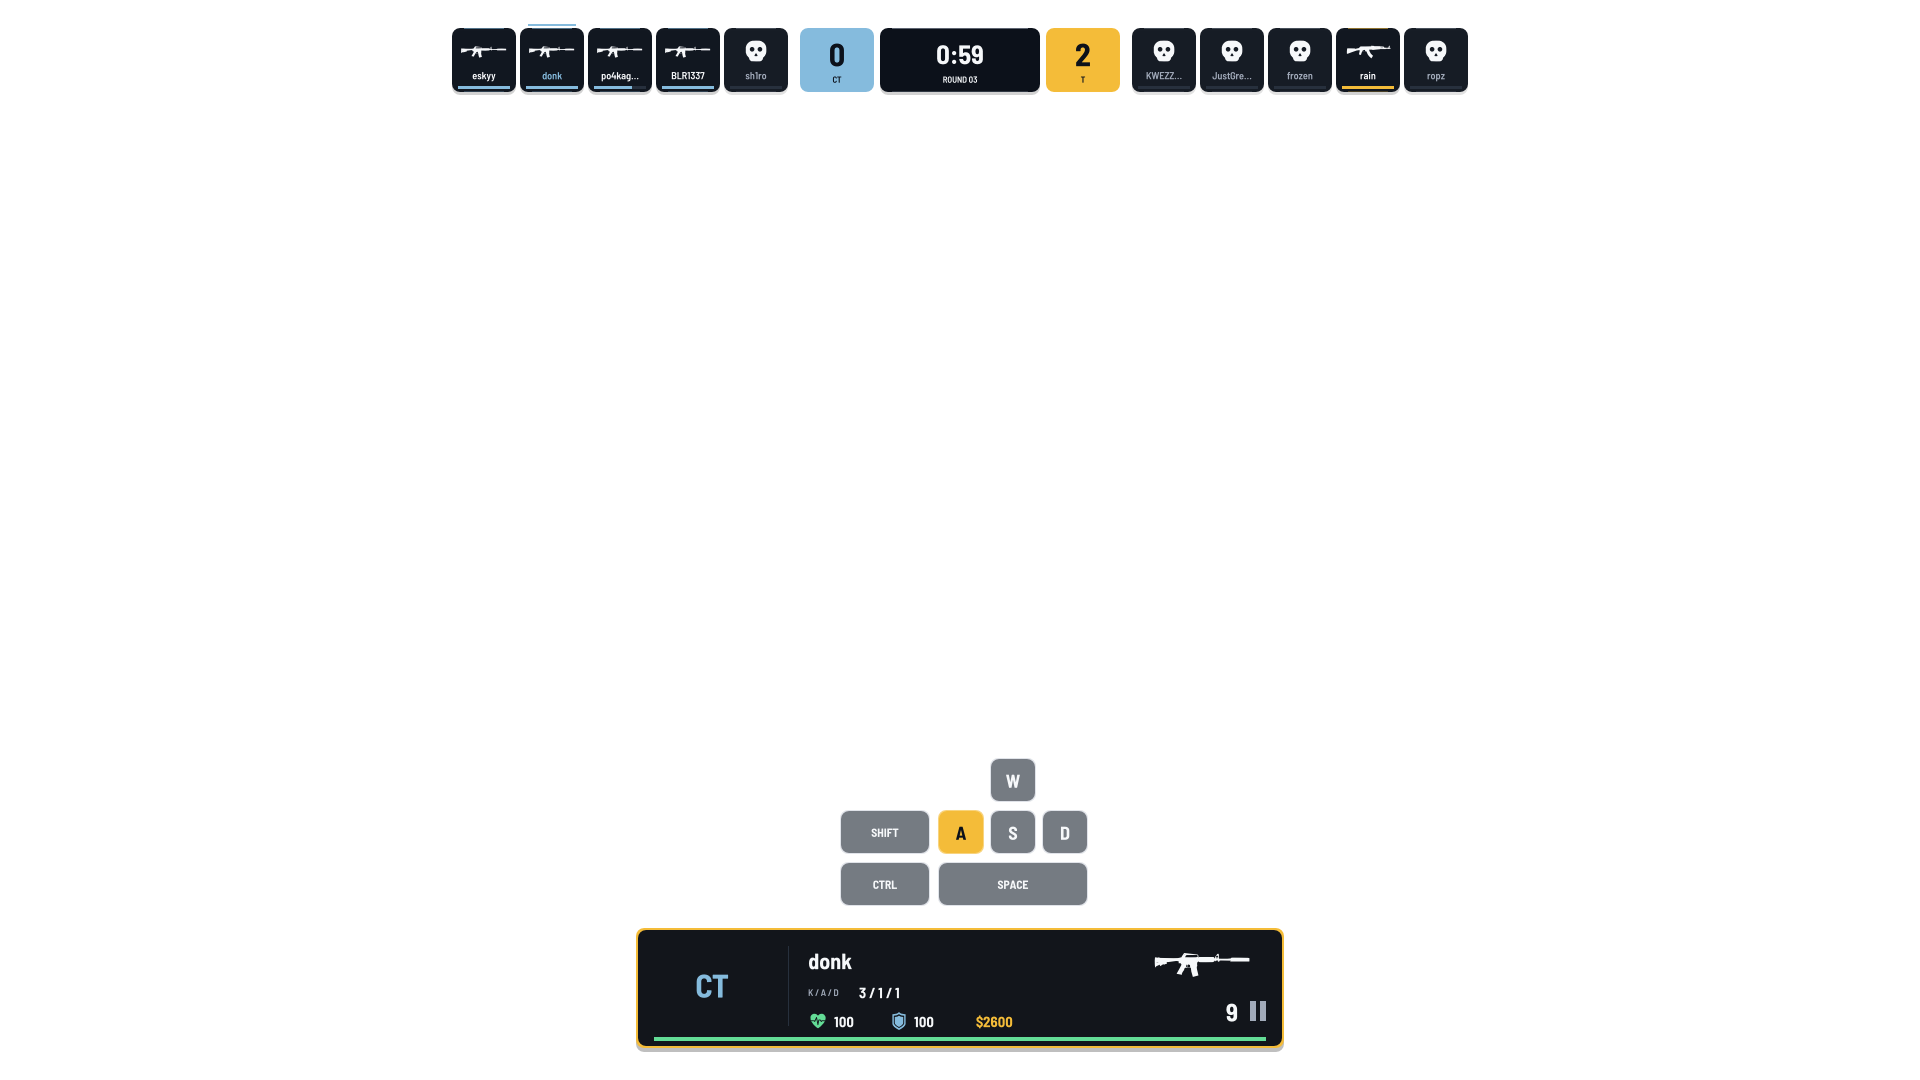
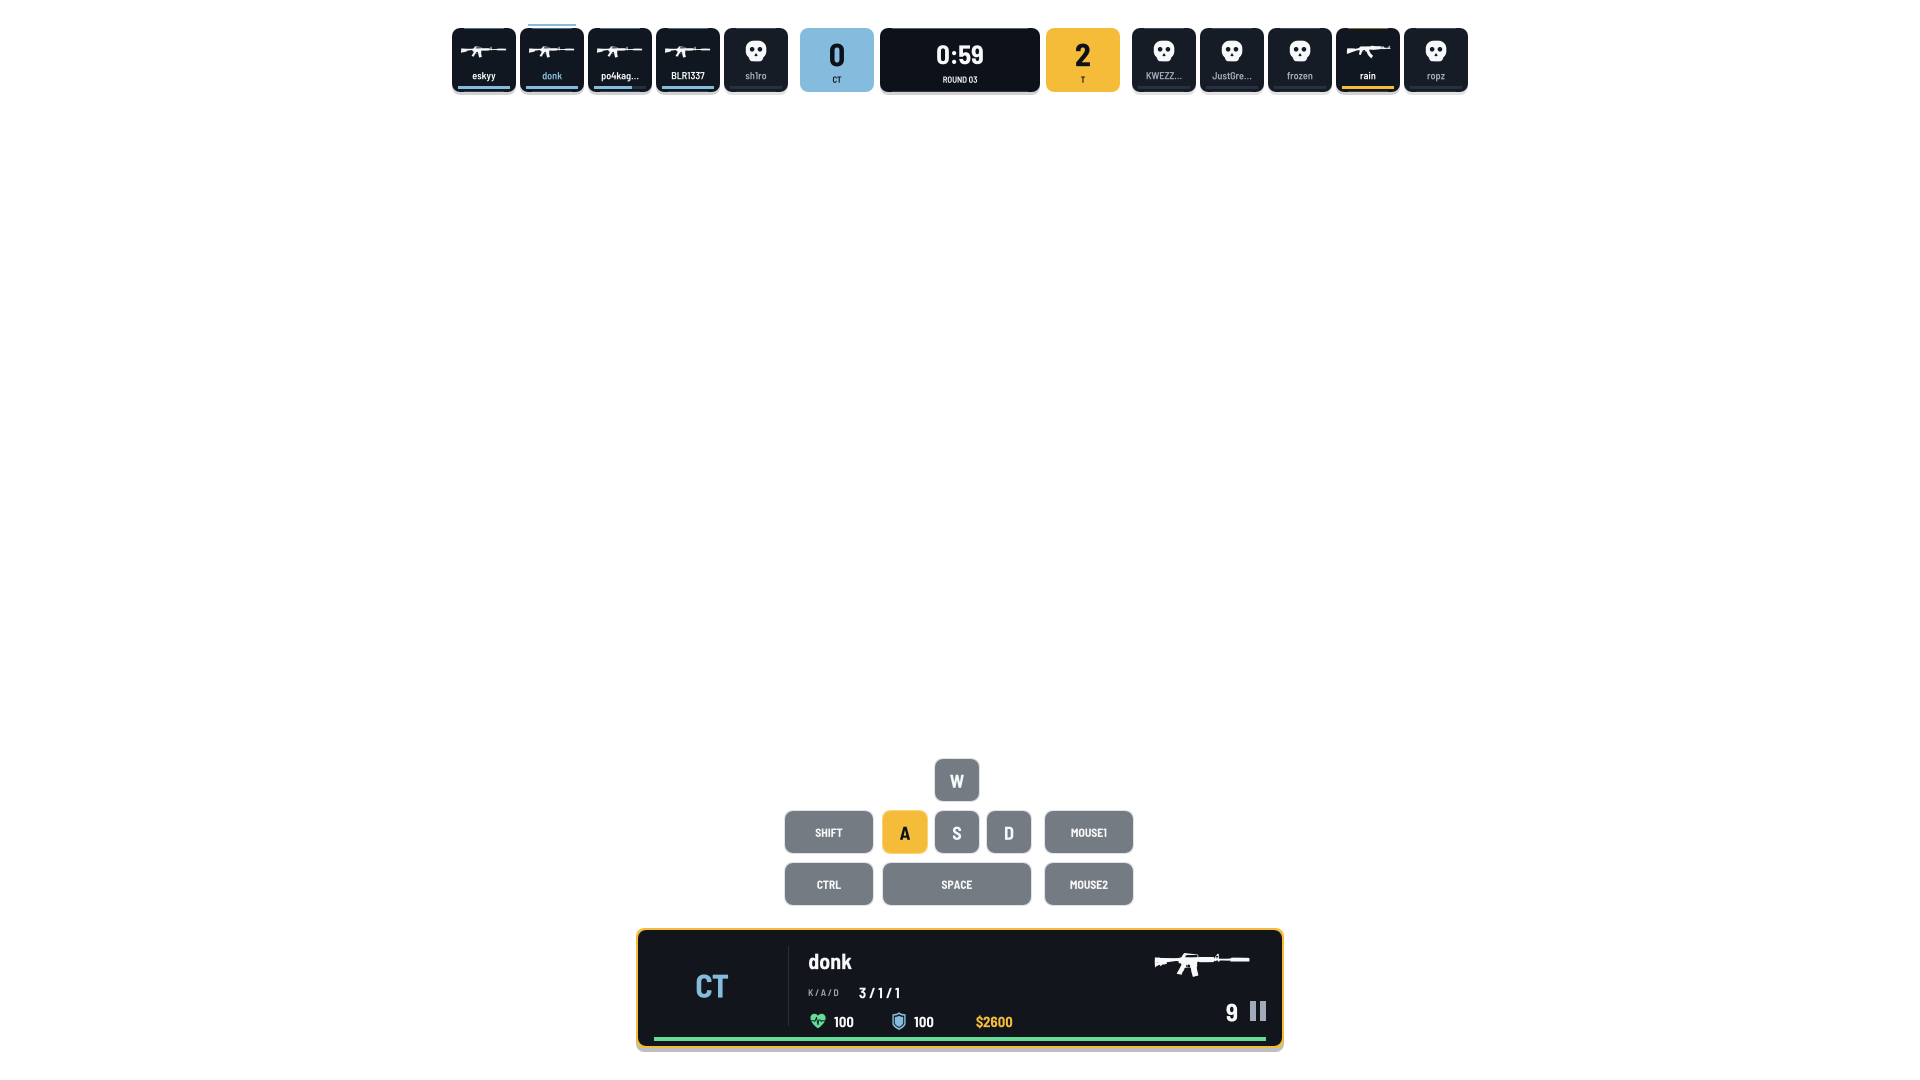
feat(hud): Focus HUD shows MOUSE1 and MOUSE2, so a throw's release is visible

Changed region(s): [[0.4062, 0.7028, 0.5938, 0.8556]]

diff --git a/internal/customhud/focus_test.go b/internal/customhud/focus_test.go
@@ -14,9 +14,9 @@ func TestMovementRequiresRecordedPropertyAndIgnoresUnshownActions(t *testing.T) 
 			t.Fatal("missing input became released keys")
 		}
 	}
-	for _, mask := range []uint64{0, uint64(common.ButtonForward | common.ButtonDuck | common.ButtonAttack)} {
+	for _, mask := range []uint64{0, uint64(common.ButtonForward | common.ButtonDuck | common.ButtonAttack | common.ButtonAttack2 | common.ButtonUse)} {
 		got := sourceMovement(propertyEntity{values: map[string]st.PropertyValue{"m_pMovementServices.m_nButtonDownMaskPrev": {Any: mask}}})
-		if got == nil || *got != mask&^uint64(common.ButtonAttack) {
+		if got == nil || *got != mask&^uint64(common.ButtonUse) {
 			t.Fatalf("movement mask=%v", got)
 		}
 	}
@@ -119,5 +119,26 @@ func TestFocusAmmoShowsMagazinesAndHidesWithoutOne(t *testing.T) {
 		if nodes["focus/ammo"].Text != tc.clip || nodes["focus/reserve"].Text != tc.count || magazines != tc.magazines {
 			t.Fatalf("ammo %d/%d drew clip=%q count=%q magazines=%d", tc.ammo, tc.reserve, nodes["focus/ammo"].Text, nodes["focus/reserve"].Text, magazines)
 		}
+	}
+}
+
+func TestFocusShowsThrowButtons(t *testing.T) {
+	r, _ := NewRenderer("focus")
+	state := Example()
+	throw := uint64(common.ButtonJump | common.ButtonAttack)
+	for i := range state.Players {
+		if state.Players[i].SteamID == ExampleTarget {
+			state.Players[i].Movement = &throw
+		}
+	}
+	nodes := map[string]Node{}
+	for _, node := range r.Scene(state, ExampleTarget) {
+		nodes[node.ID] = node
+	}
+	if nodes["keys/MOUSE1/plate"].Color != r.Theme.T || nodes["keys/SPACE/plate"].Color != r.Theme.T {
+		t.Fatal("a jumpthrow does not light SPACE and MOUSE1")
+	}
+	if _, ok := nodes["keys/MOUSE2/plate"]; !ok || nodes["keys/MOUSE2/plate"].Color == r.Theme.T {
+		t.Fatal("MOUSE2 must be drawn released")
 	}
 }

diff --git a/internal/customhud/focus.go b/internal/customhud/focus.go
@@ -115,13 +115,16 @@ func (s *scene) movementKeys(p Player) {
 		x, y, w int
 		bit     common.ButtonBitMask
 	}{
-		{"W", 990, 758, 46, common.ButtonForward},
-		{"SHIFT", 840, 810, 90, common.ButtonSpeed},
-		{"A", 938, 810, 46, common.ButtonMoveLeft},
-		{"S", 990, 810, 46, common.ButtonBack},
-		{"D", 1042, 810, 46, common.ButtonMoveRight},
-		{"CTRL", 840, 862, 90, common.ButtonDuck},
-		{"SPACE", 938, 862, 150, common.ButtonJump},
+		{"W", 934, 758, 46, common.ButtonForward},
+		{"SHIFT", 784, 810, 90, common.ButtonSpeed},
+		{"A", 882, 810, 46, common.ButtonMoveLeft},
+		{"S", 934, 810, 46, common.ButtonBack},
+		{"D", 986, 810, 46, common.ButtonMoveRight},
+		{"CTRL", 784, 862, 90, common.ButtonDuck},
+		{"SPACE", 882, 862, 150, common.ButtonJump},
+		// Grenades leave the hand when the mouse button is released.
+		{"MOUSE1", 1044, 810, 90, common.ButtonAttack},
+		{"MOUSE2", 1044, 862, 90, common.ButtonAttack2},
 	} {
 		id := "keys/" + key.label
 		active := *p.Movement&uint64(key.bit) != 0

diff --git a/internal/customhud/movement.go b/internal/customhud/movement.go
@@ -8,7 +8,7 @@ import (
 	"google.golang.org/protobuf/encoding/protowire"
 )
 
-const movementMask = uint64(common.ButtonForward | common.ButtonBack | common.ButtonMoveLeft | common.ButtonMoveRight | common.ButtonJump | common.ButtonDuck | common.ButtonSpeed)
+const movementMask = uint64(common.ButtonForward | common.ButtonBack | common.ButtonMoveLeft | common.ButtonMoveRight | common.ButtonJump | common.ButtonDuck | common.ButtonSpeed | common.ButtonAttack | common.ButtonAttack2)
 
 // CS2 records commands per controller slot, independently of pawn properties.
 // Recent demos use CMsgServerUserCmd.delta_data (field 6), not declared in our

diff --git a/internal/customhud/catalog.go b/internal/customhud/catalog.go
@@ -8,8 +8,8 @@ import (
 	"fmt"
 )
 
-const Version = "broadcast-hud-v6"
-const TelemetryVersion = "broadcast-hud-v4"
+const Version = "broadcast-hud-v7"
+const TelemetryVersion = "broadcast-hud-v5"
 const CaptureProfile = "broadcast-clean-v2"
 const LegacyCaptureProfile = "broadcast-clean"
 
